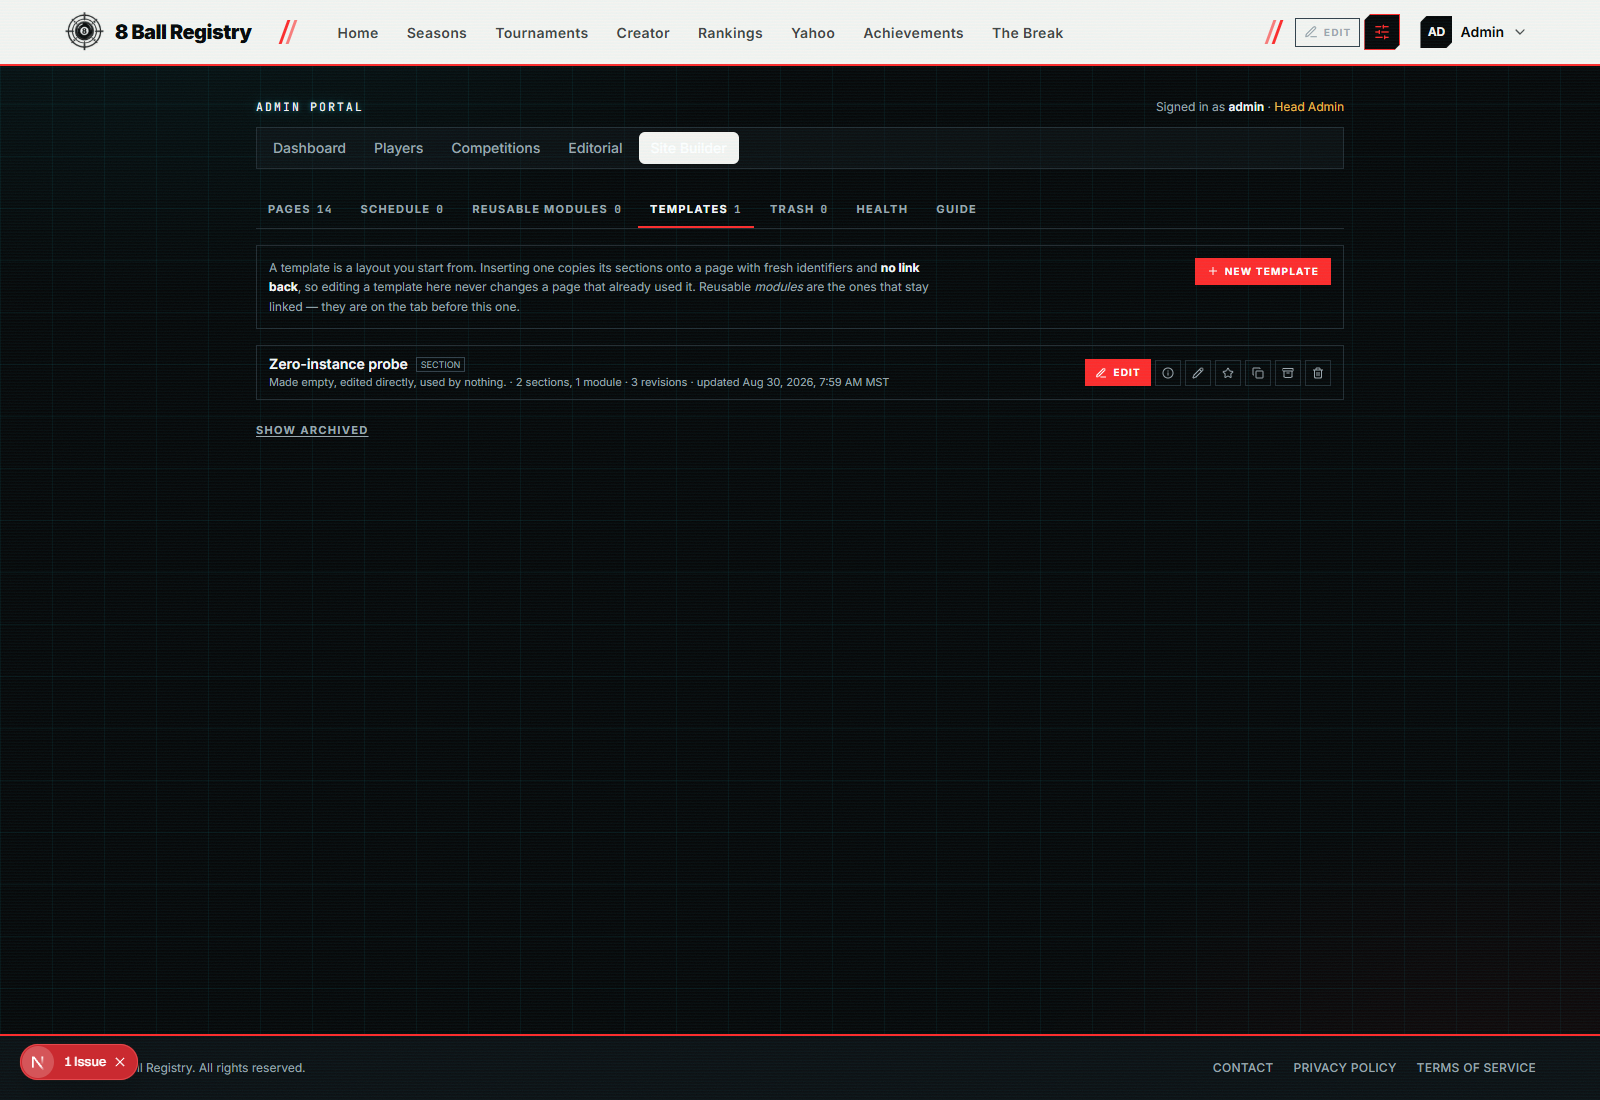
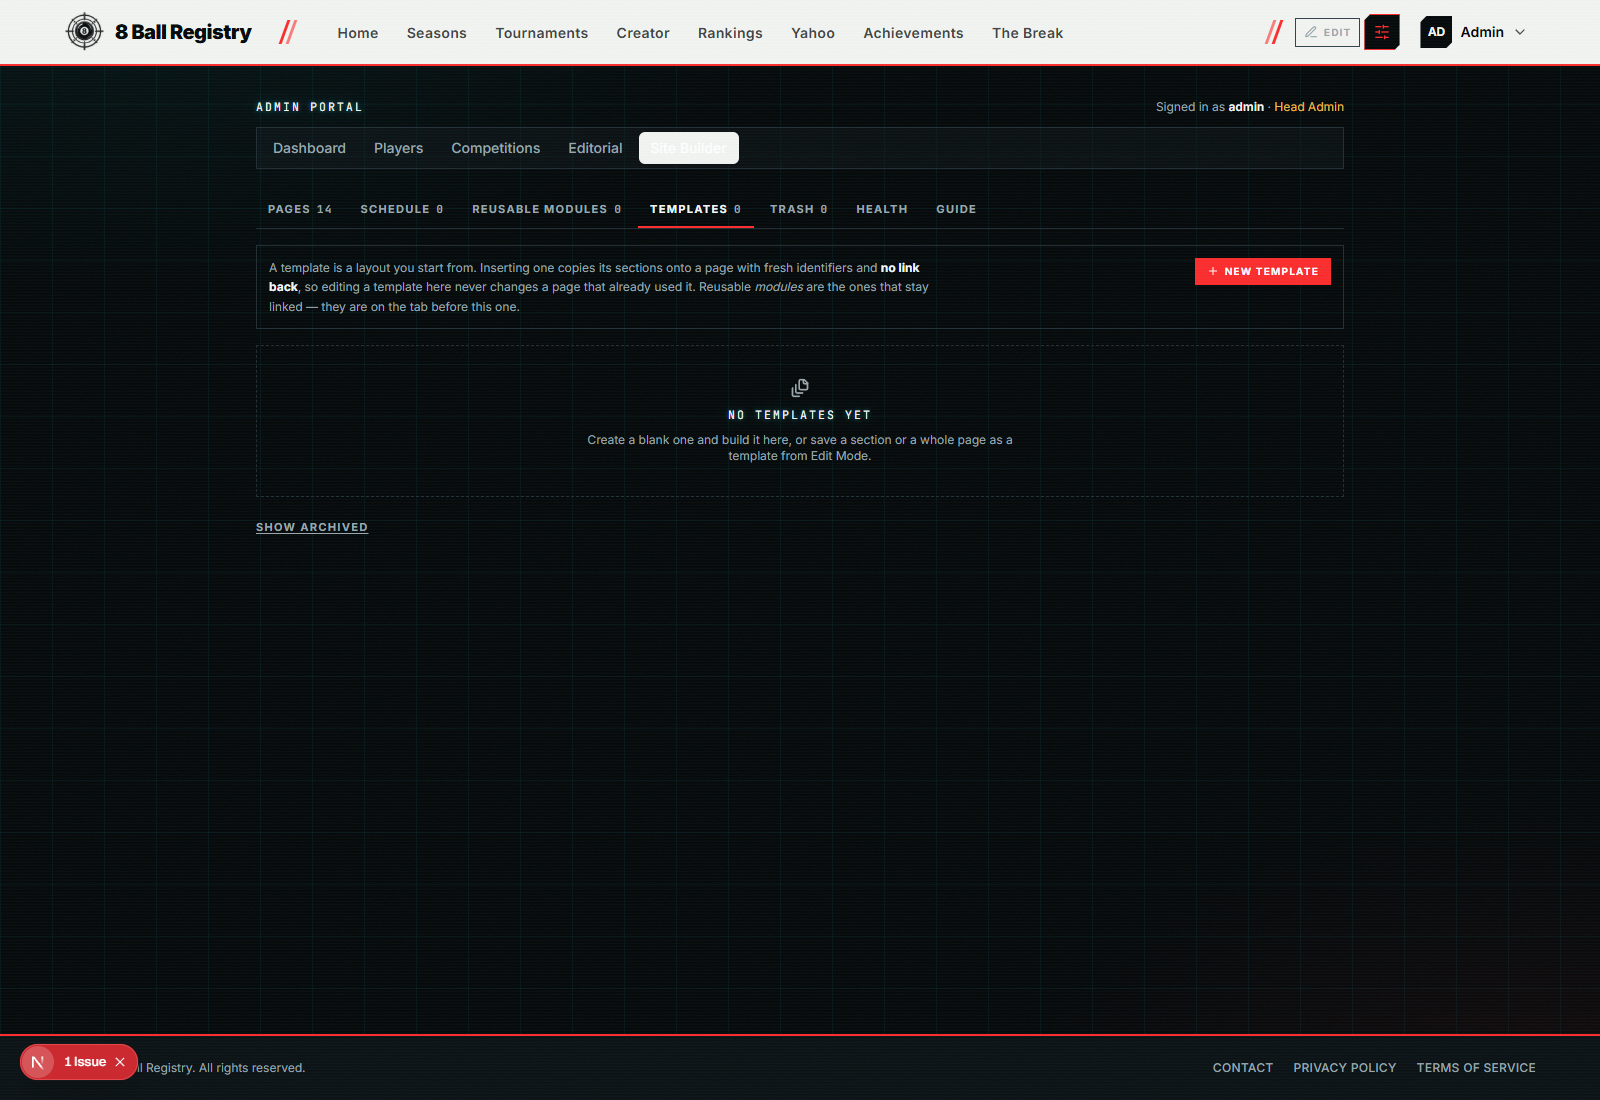
Restore what the capture creates, and write down the rollout
The final fingerprint showed two `site_template` rows left behind by capture runs
from before the guard existed. The guard restored pages and not templates, which
is half a promise: the capture creates a template to photograph the zero-instance
workflow, and a template it created is as much a leftover as a revision it
published. It now records the template ids present before the run and removes only
what it added — verified: 0 templates before, 0 after, and the run reports the one
it cleaned up by name.

docs/site-builder-rollout.md is the production plan, unexecuted. Its shape is set
by one assumption stated at the top: production may have legitimate activity the
local copy does not, so nothing here overwrites production with a dump. Three
additive migrations and an idempotent bootstrap, with the verification split so
that after the migrations the site is provably unchanged — the tables exist and
are empty, every page still renders from code — and the bootstrap is a separate,
reversible step you watch.

Four levels of rollback, smallest first: restore a revision from the interface;
revoke the capability, which leaves published pages rendering because they are
ordinary server-rendered layouts; render the code layout instead, which loses no
data; and drop the tables, which affects nothing else because they are additive.
With the note that a PostgreSQL enum value cannot be removed and does not need to
be.
[…]

diff --git a/docs/site-builder-rollout.md b/docs/site-builder-rollout.md
@@ -1,0 +1,204 @@
+# Site Builder — production rollout plan
+
+**Not executed.** This is the plan for deploying the site builder onto the live 8br.gg database. Read
+it through before starting; nothing here has been run.
+
+---
+
+## The one assumption that shapes everything
+
+**Production may have legitimate activity that the local copy does not.** The local database is a copy
+taken on 2026‑08‑29; since then somebody may have published an article, registered for a Season, or
+had a rating recalculated. So this rollout **never overwrites production with a dump**. It applies
+two additive migrations and runs an idempotent bootstrap, and both leave every existing row alone.
+
+If at any point the plan seems to call for restoring the local database over production, stop — that
+is not this plan.
+
+---
+
+## What is actually being deployed
+
+| | |
+| --- | --- |
+| **Migrations** | 3 files, all additive: `20260830120000_site_page_kind_global`, `20260830140000_site_revision_state_failed`, `20260830140100_site_scheduler_and_template_revisions` |
+| **New tables** | 9, all prefixed `site_` |
+| **Altered existing tables** | None outside `site_*` |
+| **Destructive statements** | None. No DROP, DELETE, TRUNCATE, RENAME, type change or NOT NULL added |
+| **New environment variables** | `SITE_BUILDER_CRON_SECRET` (required for scheduling) |
+| **New cron** | `/api/cron/site-builder-schedule`, every 5 minutes, already in `vercel.json` |
+| **Data written on first run** | The bootstrap: 14 `site_page` rows, one draft and one revision each |
+
+Verify the additivity claim yourself before deploying:
+
+```bash
+git diff --name-only eb83f3e..HEAD -- prisma/migrations
+grep -rniE "DROP |DELETE |TRUNCATE |RENAME |SET NOT NULL" prisma/migrations/2026083*/migration.sql
+```
+
+The second prints only `ON DELETE SET NULL` / `ON DELETE CASCADE` clauses inside `ADD CONSTRAINT`,
+which are foreign-key behaviours on new tables, not statements.
+
+---
+
+## Before you start
+
+1. **Back up production**, and verify the backup restores. Not a Neon branch alone — a dump you hold.
+2. **Fingerprint production** so the deploy can be proved additive afterwards:
+   ```bash
+   scripts/db/fingerprint.sh "<production connection string>" > prod-before.txt
+   ```
+3. **Check the migration state matches**: `npx prisma migrate status` against production should show
+   the 51 migrations that precede this work applied, and exactly the three above pending.
+4. **Pick a quiet moment.** Nothing here takes the site down, but the bootstrap changes what renders
+   the homepage, and you want to be looking at it when it does.
+
+---
+
+## The rollout
+
+### 1. Set the secrets first, deploy second
+
+In the Vercel project, add:
+
+| Variable | Value |
+| --- | --- |
+| `SITE_BUILDER_CRON_SECRET` | `openssl rand -base64 48` |
+| `CRON_SECRET` | The **same value**, if you want Vercel Cron to drive it — see `site-builder-scheduling.md` |
+
+Do **not** set `SITE_BUILDER_E2E_SECRET` or `SITE_BUILDER_E2E_EMAIL`. They are development-only, and
+the route they enable refuses to run when `NODE_ENV=production` regardless.
+
+Setting these before the deploy means the cron works from the first minute rather than 404ing until
+somebody notices.
+
+### 2. Deploy
+
+`npm run vercel-build` runs `scripts/deploy-migrate.mjs` and then the build, so the migrations apply
+as part of the deploy. Nothing extra to run.
+
+Watch for: the Payload migrate prompt stalling the build (known, 5–25 minutes, defaults to N, and
+harmless — it is in `docs/8br-deploy-gotchas.md`).
+
+### 3. Verify the migration, before touching anything
+
+```sql
+SELECT migration_name FROM _prisma_migrations ORDER BY finished_at DESC LIMIT 3;
+SELECT count(*) FROM site_page;                    -- 0. Nothing is bootstrapped yet.
+SELECT unnest(enum_range(NULL::"SitePageKind"));   -- includes GLOBAL
+SELECT unnest(enum_range(NULL::"SiteRevisionState")); -- includes FAILED
+```
+
+**At this point the site is unchanged.** The tables exist and are empty; every page still renders
+from the code-defined layout, because that is the last step of the fallback chain. If anything above
+is wrong, stop here — nothing has to be undone.
+
+Take a fingerprint now and diff it against `prod-before.txt`. The only differences should be
+`_prisma_migrations` and the new empty `site_*` tables.
+
+### 4. Bootstrap
+
+Sign in as the Owner, open **Admin → Site Builder**, and press **Capture the current site**.
+
+This reads the layouts defined in code and writes them as the first published revision of each page.
+It is idempotent — it creates only pages that do not already exist — so it is safe to press twice.
+
+Then check the site: the homepage should be **pixel-identical** to what it was five minutes earlier.
+That is the whole point of bootstrapping from the code layout rather than from anything else. If it
+is not identical, see *Rolling back* below.
+
+### 5. Verify the scheduler
+
+```bash
+curl -fsS -X POST https://8br.gg/api/cron/site-builder-schedule \
+  -H "x-site-builder-cron-secret: $SITE_BUILDER_CRON_SECRET"
+```
+
+Expect `{"ok":true,"considered":0,...}`. A **404 means the secret did not match** — that is the
+designed response to an unauthorised caller and looks identical to a missing route.
+
+Then confirm the platform cron: Vercel → the project → Cron Jobs → `/api/cron/site-builder-schedule`
+should be listed and its next invocations should return 200.
+
+### 6. Watch for a day
+
+- **Admin → Site Builder → Health** re-validates every published layout on load. It should report
+  nothing.
+- The audit trail: `SELECT action, count(*) FROM comp_audit_log WHERE action LIKE 'site_builder%'
+  GROUP BY 1;`
+- Server logs for `[site-builder]` — a fallback to an earlier revision, or a failed schedule sweep,
+  logs there.
+
+---
+
+## Rolling back
+
+Three levels, smallest first. Reach for the smallest that solves the problem.
+
+### A page looks wrong
+
+**Admin → Site Builder → 🕘 → Restore.** Nothing is deleted; the restore publishes as a new revision.
+This is the ordinary case and needs no deploy.
+
+### The builder is the problem, the tables are fine
+
+Revoke the capability — one line in `src/lib/auth/roles.ts`:
+
+```ts
+manage_site_builder: () => false,
+```
+
+Edit Mode disappears, `/staff/site-builder` returns 403, every builder action refuses. **Published
+pages keep rendering**: they are ordinary server-rendered layouts and do not need the editor.
+
+### Go back to code-defined layouts entirely
+
+Change `BuilderPage` in `src/components/site-builder/edit-mode.tsx` to render `factoryDocument(pageKey)`
+instead of the published layout, and deploy. Every page renders exactly as it did before any of this
+existed. **No data is lost** — the `site_*` tables are simply not read.
+
+### Remove the tables
+
+Only if you are abandoning the feature. The tables are additive, so dropping them affects nothing
+else — but there is no reason to hurry, and an empty unused table costs nothing.
+
+```sql
+-- Everything the builder owns. Competition data is untouched.
+DROP TABLE IF EXISTS site_template_revision, site_page_revision, site_page_draft, site_trash_item,
+  site_reusable_module, site_template, site_theme_profile, site_builder_pref, site_page CASCADE;
+```
+
+> The enum values `GLOBAL` and `FAILED` cannot be removed from a PostgreSQL enum. They are unused
+> once the tables are gone and cost nothing. Do not attempt to recreate the type.
+
+---
+
+## What this rollout does not do
+
+- It does not overwrite production with a local dump. Production may have activity the copy does not.
+- It does not migrate, transform or backfill any existing row.
+- It does not change any competition table, any account, any role, or any rating.
+- It does not enable the development E2E session route, which refuses under `NODE_ENV=production`.
+
+---
+
+## Risks, and what carries them
+
+| Risk | Likelihood | What limits it |
+| --- | --- | --- |
+| Bootstrap captures a layout that differs from what production renders | Low | Bootstrap reads the same code that renders today; the homepage is compared immediately after |
+| A published layout fails validation later | Low | The fallback chain serves the last valid revision, then the code layout; Health reports it |
+| The cron does not fire | Medium | The request-time fallback activates overdue schedules anyway; the Schedule tab shows *Overdue* |
+| The cron secret leaks | Low | It only triggers a sweep; it cannot choose what publishes, and rotating it is one variable |
+| Two deploys race the migration | Low | Prisma's advisory lock; `migrate deploy` is idempotent |
+| Production has a migration the local copy does not | Medium | Checked in step 3 before anything is bootstrapped |
+
+---
+
+## Afterwards
+
+- Remove `SITE_BUILDER_E2E_SECRET` / `SITE_BUILDER_E2E_EMAIL` from any environment that is not a
+  developer's machine. They should never have been set in production, and this is the check for it.
+- Keep the local copy's `.env.replica` as it is; it is gitignored and development-only.
+- The first real use is the interesting one: publish something small — a banner, a heading — and
+  confirm the revision history, the rollback, and the audit entry all say what you expect.

diff --git a/docs/site-builder-architecture.md b/docs/site-builder-architecture.md
@@ -183,11 +183,17 @@ valid revision, and failing that to the code-defined factory layout.
 | Suite | Checks | Needs |
 | --- | --- | --- |
 | `npm run test:site-builder` | 537 | nothing |
-| `npm run test:site-builder:db` | 113 | a disposable `8br_test_*` clone |
+| `npm run test:site-builder:db` | 192 | a disposable `8br_test_*` clone |
 | `npm run test:site-builder:security` | 108 | a disposable `8br_test_*` clone |
+| `npm run test:site-builder:scheduler` | 64 | a disposable `8br_test_*` clone |
+| `npm run test:site-builder:integration` | 53 | nothing — it starts its own server and clone |
 | `npm run test:dev-hydration` | 36 | the dev server |
-| `npm run capture:site-builder` | 29 | the dev server (also writes the proof screenshots) |
 | `npm run test:responsive` | 99 | the dev server |
+| `npm run capture:site-builder` | 39 | the dev server, and `--i-accept-local-writes` |
+
+**992 checks.** The capture and the integration suite both write, and both restore what they wrote;
+the capture refuses a non-local host outright. See `site-builder-scheduling.md` for the scheduler and
+`build-warnings.md` for the one thing `npm run build` reports that is not ours.
 
 The two database suites assert the target database matches `8br_test_*` **before Prisma is
 imported**, because importing it opens a connection. There is no override.

diff --git a/docs/site-builder-recovery.md b/docs/site-builder-recovery.md
@@ -162,6 +162,11 @@ npm run test:site-builder                            # 537 checks, no database, 
 ```
 
 ```bash
+scripts/db/make-test-clone.sh 8br_test_sched
+DATABASE_URL=<clone> npm run test:site-builder:scheduler # 64 checks, disposable clone only
+```
+
+```bash
 scripts/db/make-test-clone.sh 8br_test_sb
 DATABASE_URL=<clone> npm run test:site-builder:db       # 113 checks, disposable clone only
 ```
@@ -179,7 +184,15 @@ With the dev server running (`npm run dev:replica`):
 ```bash
 npm run test:dev-hydration     # 36 checks: the editor actually mounts and responds
 npm run test:responsive    # 99 checks: nine widths, published and in Edit Mode
-npm run capture:site-builder  # 29 checks, and the screenshots in docs/site-builder-proof/
+npm run capture:site-builder -- --i-accept-local-writes   # 39 checks + the proof screenshots
+```
+
+And the integration suite, which needs nothing running because it starts its own server against
+its own disposable clone:
+
+```bash
+npm run test:site-builder:integration   # 53 checks: the real navigation read path, cache
+                                        # invalidation, rollback, and the cron endpoint's auth
 ```
 
 Both drive a headless Chrome on a **clean profile**. That matters: an everyday browser running a
